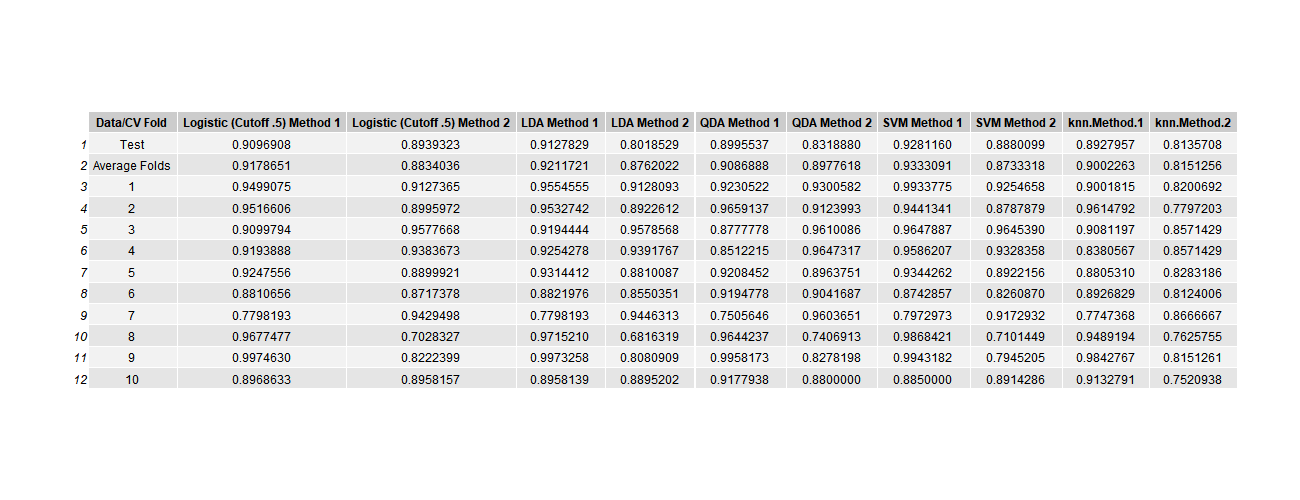
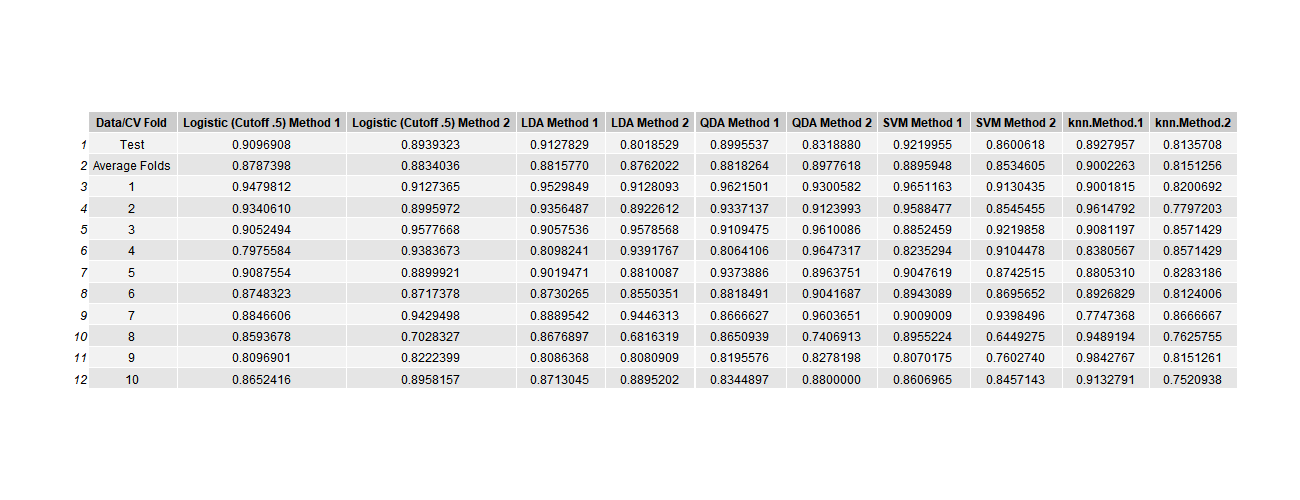
reran for final time and AUC calculations and other

diff --git a/README.md b/README.md
@@ -2,14 +2,14 @@
 
 Repo for Spring 2019 Stat 154 Project 2
 + Catherine Wang- catherine_wang at berkeley.edu
-+ Yijin Wang- 
++ Yijin Wang
 
 ## Final Report: 
 
 The Final Report pdf is the final submission for this project. (This pdf was generated on google docs, and the corresponding word file is also included for reproducibility.)
 
 ## Reproducibility:
-To reproduce all the figures, graphs, tables, and results from the final report, run through the R code in the `project2.R`, `project2_3b.R` file in order. (Also make sure that you all the raw image data in a folder `image_data/` that can be found from either this repository or Make sure you have installed the required libraries such as `ggplot2`, `dplyr`, `gridExtra`, `GGally`, `caret`, `MASS`, `e1071` etc.)
+To reproduce all the figures, graphs, tables, and results from the final report, run through the R code in the `project2_123a.R`, `project2_3b.R`, `project2_4.R` file in order. (Also make sure that you all the raw image data in a folder `image_data/` that can be found from either this repository or from MISR. Make sure you have installed the required libraries such as `ggplot2`, `dplyr`, `gridExtra`, `GGally`, `caret`, `MASS`, `e1071` etc.)
 
 
 + note: in the script, it saves the images in between in the `imgs` folder, however these may result in lower quality (resolution) images than the actual final report contains. To get the higher quality images, run the code and zoom in in RStudio. 
